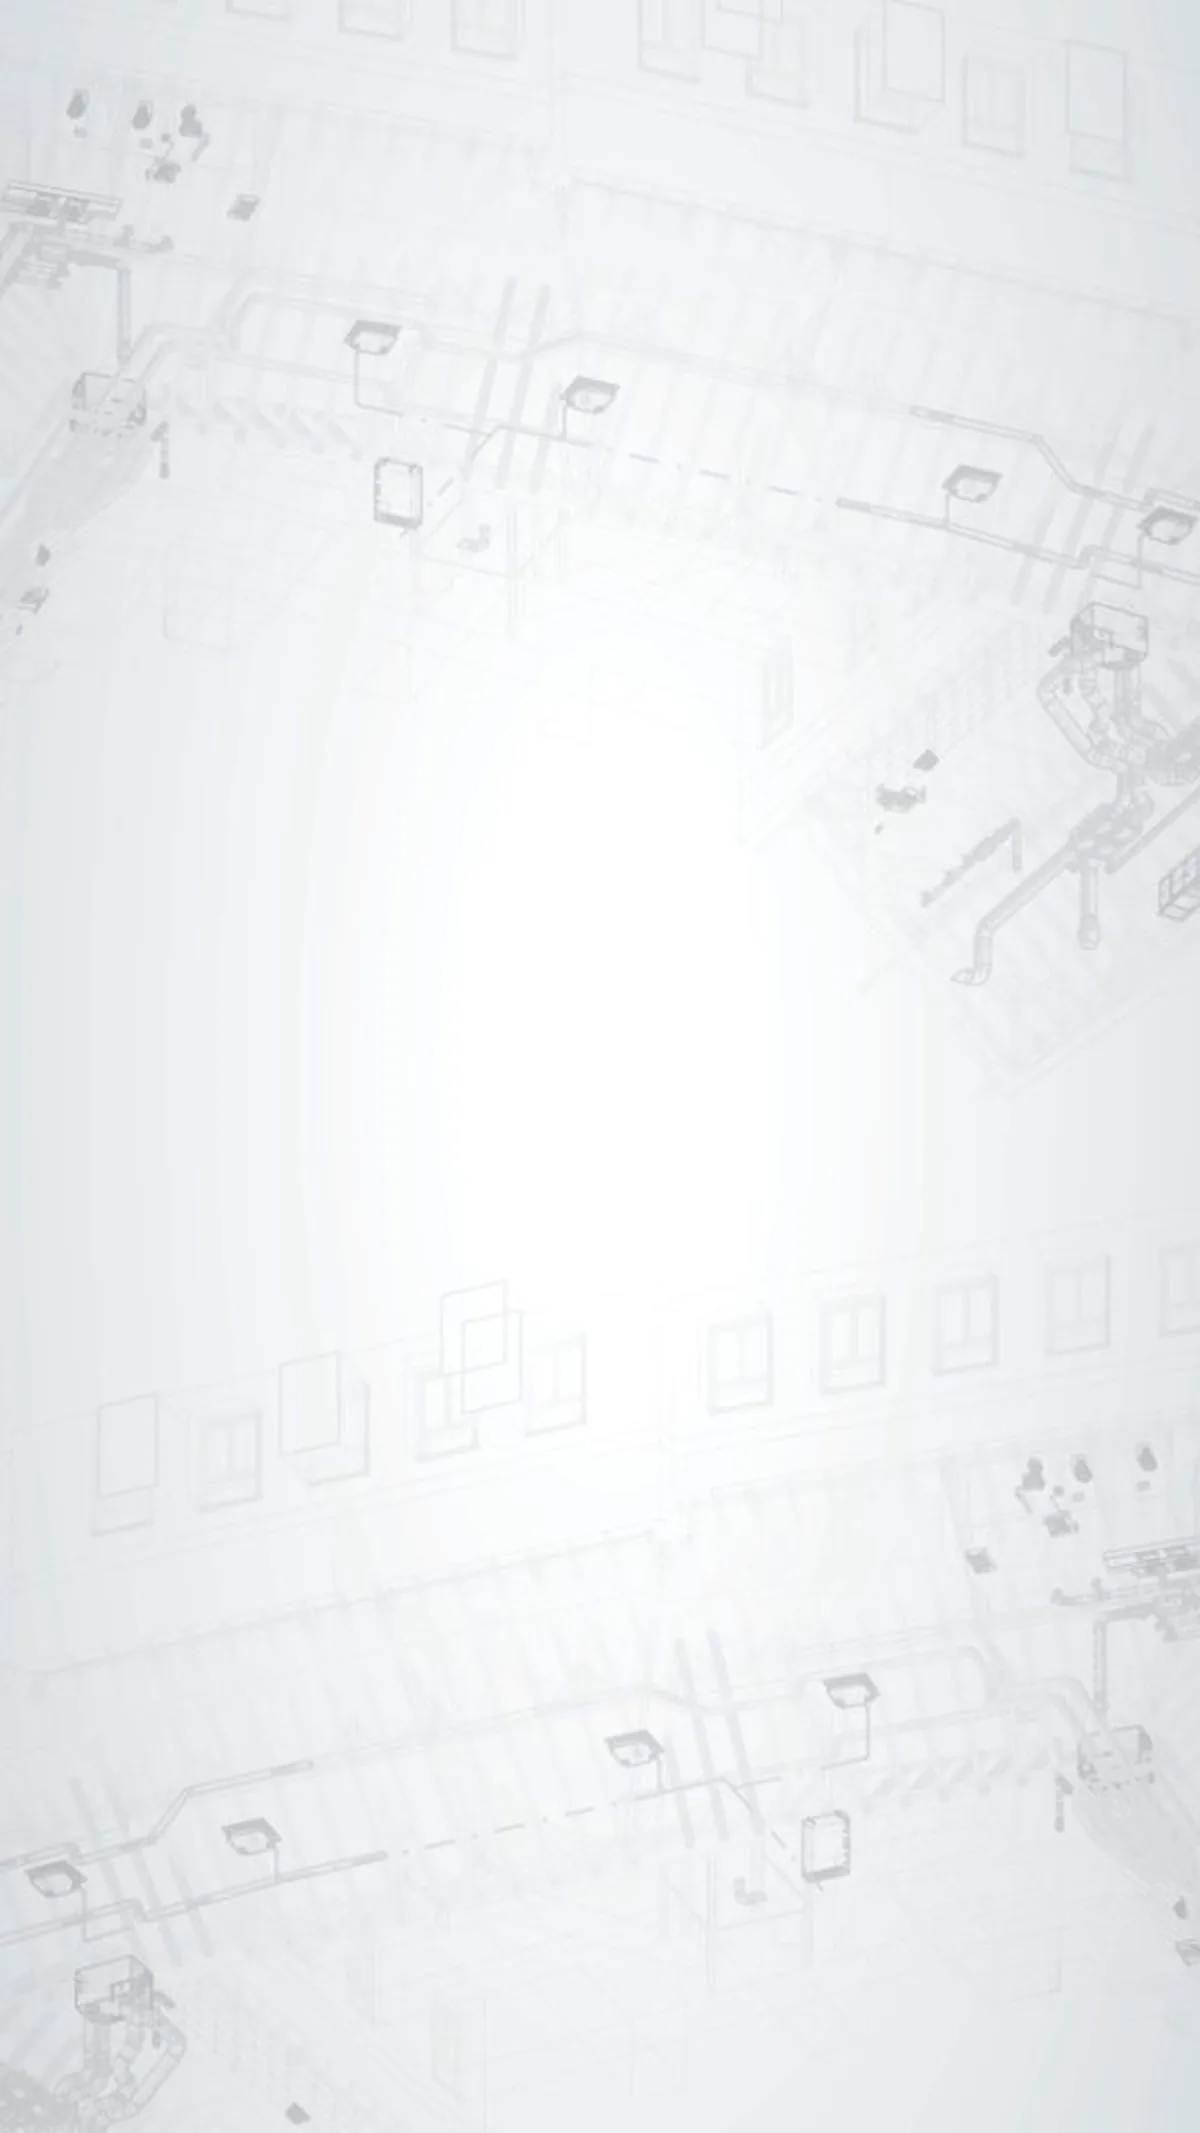
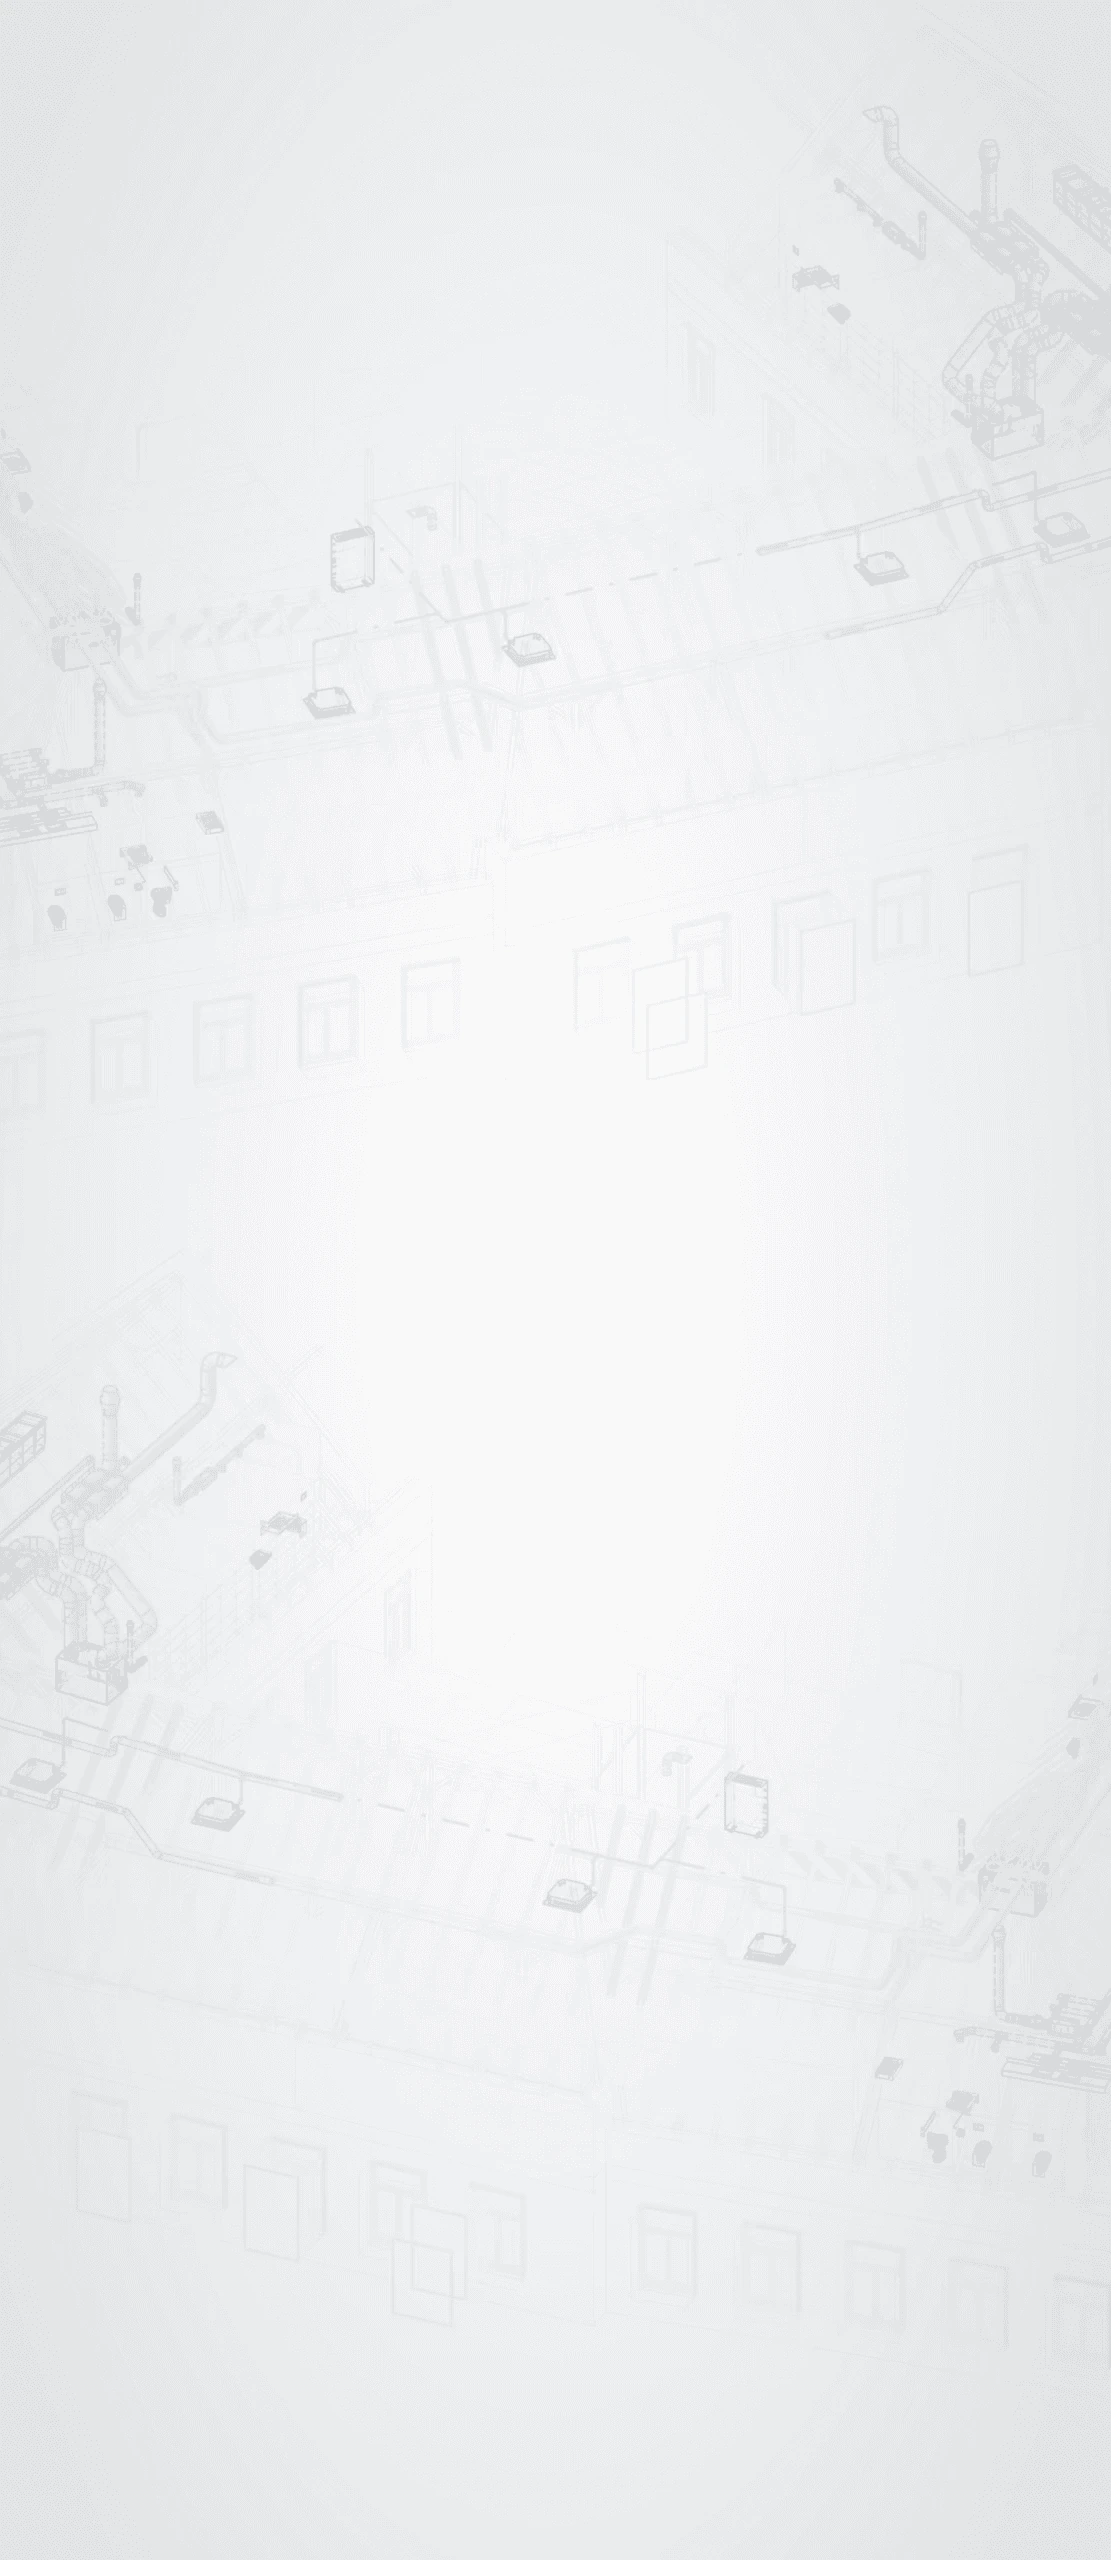
Sjednotit SEO popisky s oválem a ostřejší pozadí stránky.

diff --git a/src/styles/global.css b/src/styles/global.css
@@ -11,16 +11,11 @@
   body {
     @apply font-sans text-black antialiased;
     background-color: #f6f6f6;
-    background-image: url('/images/pozadi-prokat.webp');
+    /* Native PNG line-art — avoid soft upscaled WebP */
+    background-image: url('/images/pozadi-prokat.png');
     background-size: 100% auto;
     background-position: center top;
     background-repeat: repeat-y;
-  }
-}
-
-@media (-webkit-min-device-pixel-ratio: 2), (min-resolution: 192dpi) {
-  body {
-    background-image: url('/images/pozadi-prokat@2x.webp');
   }
 }
 
@@ -191,6 +186,43 @@
   .service-card:hover .service-media img {
     transform: none;
   }
+}
+
+/* Unified SEO / section eyebrow labels */
+.seo-label {
+  display: inline-flex;
+  width: fit-content;
+  max-width: 100%;
+  flex-wrap: wrap;
+  align-items: center;
+  gap: 0.625rem;
+  border-radius: 9999px;
+  border: 1px solid rgba(16, 16, 41, 0.2);
+  background: transparent;
+  padding: 0.5rem 1rem;
+  font-size: 0.875rem;
+  font-weight: 500;
+  line-height: 1.35;
+  color: #101029;
+}
+
+@media (min-width: 768px) {
+  .seo-label {
+    font-size: 1.5rem;
+  }
+}
+
+.seo-label-dot {
+  height: 0.375rem;
+  width: 0.375rem;
+  flex-shrink: 0;
+  border-radius: 9999px;
+  background-color: #d49d39;
+}
+
+.seo-label--light {
+  border-color: rgba(255, 255, 255, 0.35);
+  color: #fff;
 }
 
 /* Legacy class kept for markup compatibility — page bg lives on body */
